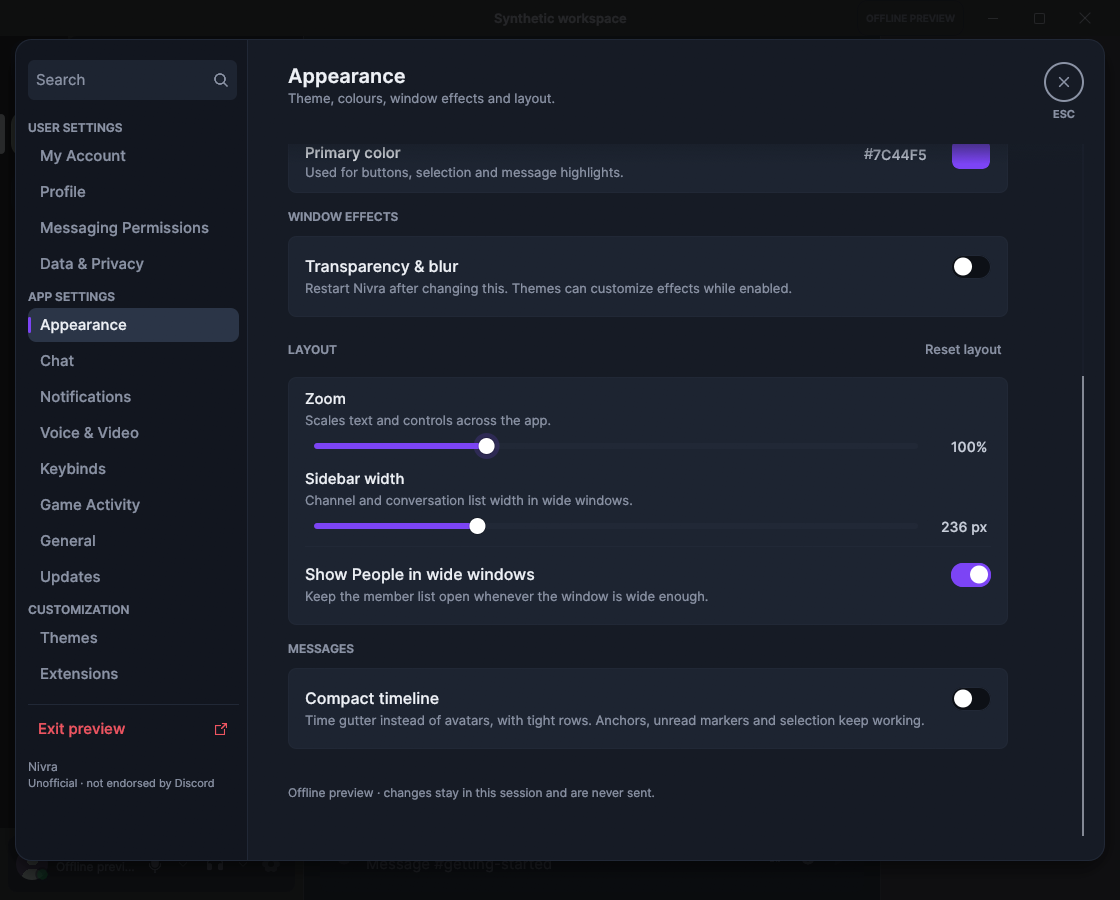
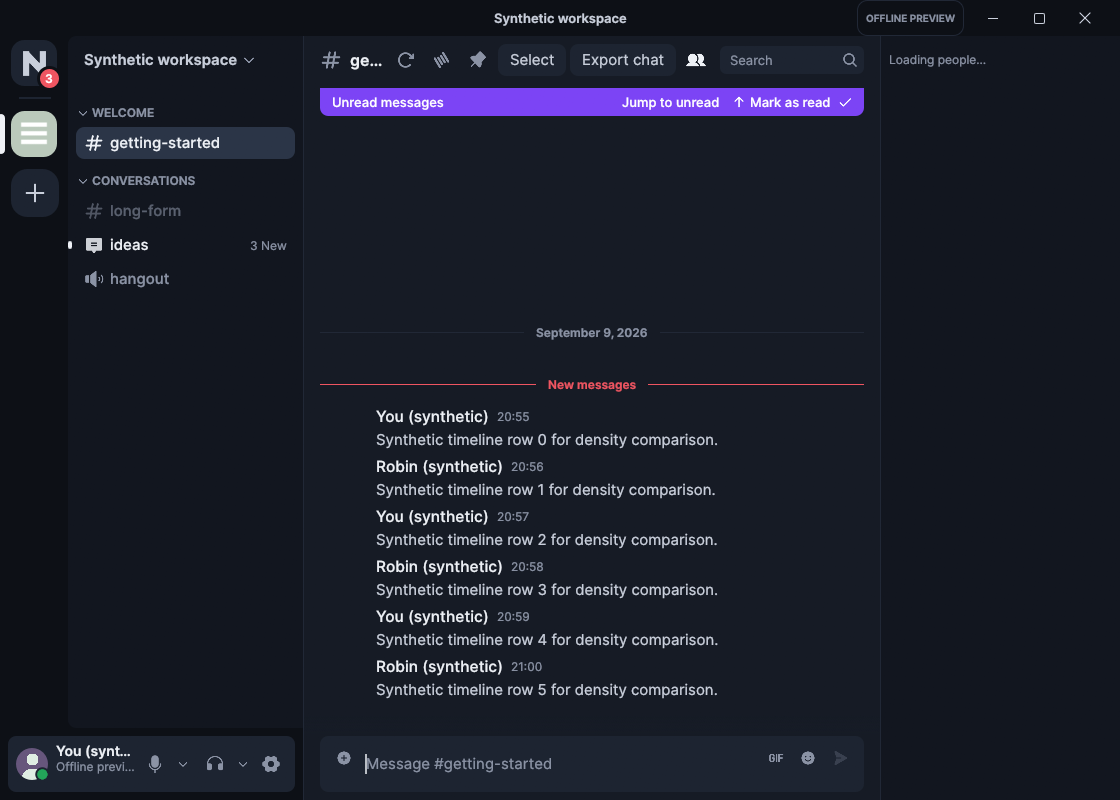
fix(ui): timeline screenshots and starter/pending compact coverage (Codex PR #76)

diff --git a/apps/desktop/examples/profile_preview.rs b/apps/desktop/examples/profile_preview.rs
@@ -425,6 +425,21 @@ fn main() -> Result<(), Box<dyn std::error::Error>> {
 			} else {
 				test_support::demo_state()
 			};
+			if args.iter().any(|arg| arg == "--timeline-text") {
+				// Text-only fixture for timeline density shots: six short rows with
+				// alternating authors in the selected channel (synthetic, disclosed).
+				let channel = state.selected.unwrap();
+				state.timeline.clear();
+				state.older_exhausted = true;
+				for i in 0..6u64 {
+					let mut m = test_support::message(100 + i, channel);
+					m.id = model::Id(
+						((1_788_998_100_000u64 + i * 60_000 - 1_420_070_400_000) << 22) | 1,
+					);
+					m.content = format!("Synthetic timeline row {i} for density comparison.");
+					state.timeline.insert(m, false, false).unwrap();
+				}
+			}
 			if page == "profile" {
 				prime_profile(&mut state);
 			}
